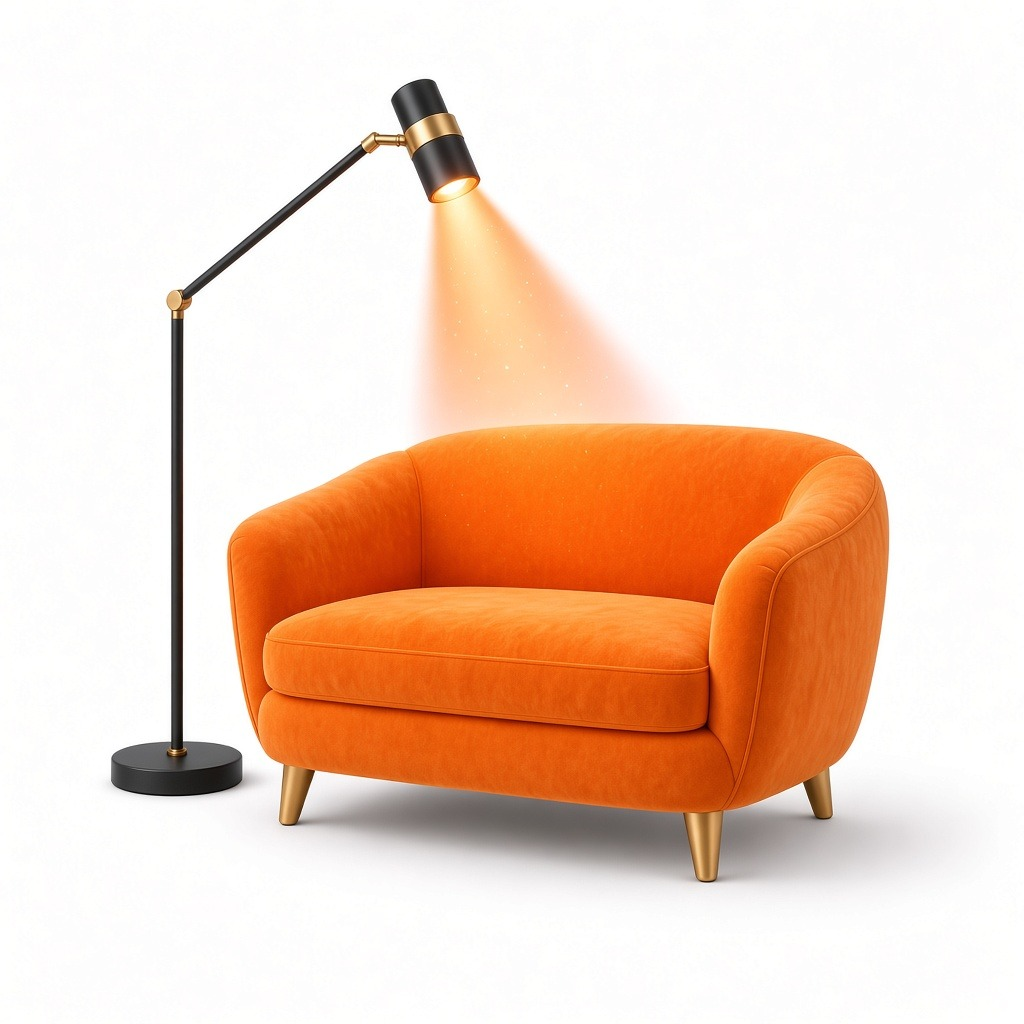
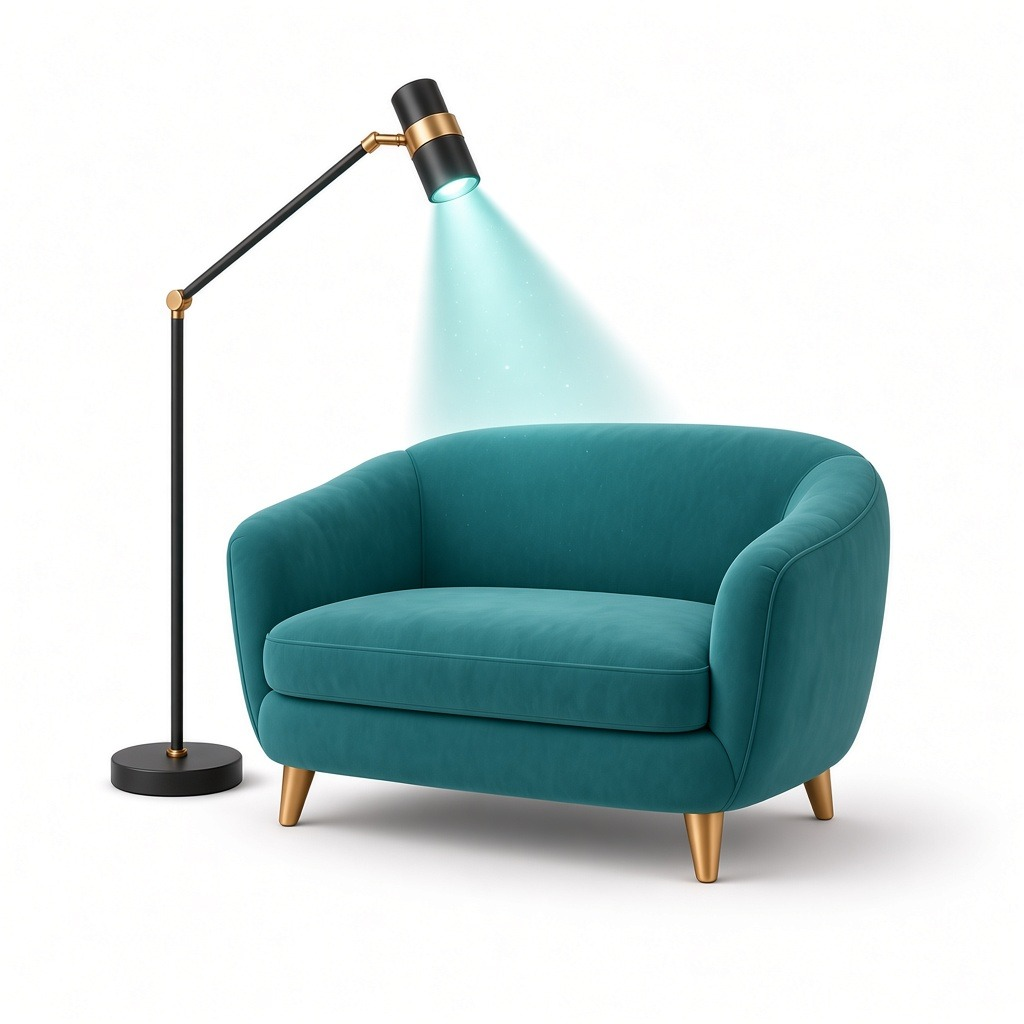
added new images and chnge ui parrt

diff --git a/components/account/AccountShell.tsx b/components/account/AccountShell.tsx
@@ -74,6 +74,7 @@ export function AccountAvatar({
 
 function GlassRail({
   pinned = false,
+  lightDrawer = false,
   pathname,
   data,
   onLogout,
@@ -82,6 +83,8 @@ function GlassRail({
 }: {
   /** Mobile drawer stays open with labels. Desktop expands with group-hover. */
   pinned?: boolean;
+  /** Light surface panel for mobile drawer (follows theme). */
+  lightDrawer?: boolean;
   pathname: string;
   data: AccountData | null;
   onLogout: () => void;
@@ -94,15 +97,34 @@ function GlassRail({
   const rowLayout = pinned
     ? "gap-2.5 pr-3 pl-1"
     : "justify-center group-hover/rail:justify-start group-hover/rail:gap-2.5 group-hover/rail:pr-3 group-hover/rail:pl-1 group-focus-within/rail:justify-start group-focus-within/rail:gap-2.5 group-focus-within/rail:pr-3 group-focus-within/rail:pl-1";
+  const ink = lightDrawer ? "text-text" : "text-rail-ink";
+  const tileIdle = lightDrawer
+    ? "bg-surface-muted text-text ring-1 ring-border dark:bg-white/8 dark:ring-white/10"
+    : "bg-white/10 text-rail-ink ring-1 ring-white/15 dark:bg-black/8 dark:ring-black/10";
+  const rowHover = lightDrawer
+    ? "hover:bg-surface-muted dark:hover:bg-white/8"
+    : "hover:bg-white/10 dark:hover:bg-black/8";
+  const activeRow = lightDrawer
+    ? "bg-accent-soft text-accent shadow-none"
+    : "bg-rail-active text-rail-on shadow-[0_8px_20px_rgba(0,0,0,0.12)]";
+  const activeIcon = lightDrawer
+    ? "bg-transparent text-accent"
+    : "bg-transparent text-rail-on";
+  const activeLabel = lightDrawer ? "text-accent" : "text-rail-on";
+  const idleLabel = lightDrawer ? "text-text" : "text-rail-ink";
 
   return (
     <div
-      className={`relative flex h-full w-full flex-col rounded-[40px] border border-white/15 bg-rail py-5 text-rail-ink dark:border-black/10 ${
-        pinned ? "overflow-hidden px-3.5" : "px-3"
+      className={`relative flex h-full w-full flex-col rounded-[40px] border pb-5 ${
+        lightDrawer
+          ? "overflow-hidden border-border bg-surface px-3.5 pt-3 text-text shadow-[0_20px_50px_rgba(0,0,0,0.18)] dark:border-white/10 dark:bg-(--vybe-nav)"
+          : pinned
+            ? "overflow-hidden border-white/15 bg-rail px-3.5 pt-3 text-rail-ink dark:border-black/10"
+            : "border-white/15 bg-rail px-3 pt-0 text-rail-ink dark:border-black/10"
       }`}
     >
       <div
-        className={`mb-6 flex items-center ${
+        className={`mb-5 flex h-10 items-center ${
           pinned
             ? "gap-2 px-1"
             : "justify-center group-hover/rail:justify-start group-hover/rail:gap-2 group-hover/rail:px-1 group-focus-within/rail:justify-start group-focus-within/rail:gap-2 group-focus-within/rail:px-1"
@@ -111,12 +133,16 @@ function GlassRail({
         <Link
           href="/"
           aria-label="VYBZ home"
-          className="flex size-11 shrink-0 items-center justify-center rounded-full bg-white/10 text-[15px] font-extrabold text-rail-ink ring-1 ring-white/15 transition-transform hover:scale-105 dark:bg-black/8 dark:ring-black/10"
+          className={`flex size-10 shrink-0 items-center justify-center rounded-full text-[14px] font-extrabold transition-transform hover:scale-105 ${
+            lightDrawer
+              ? "bg-surface-muted text-text ring-1 ring-border dark:bg-white/8 dark:ring-white/10"
+              : "bg-white/10 text-rail-ink ring-1 ring-white/15 dark:bg-black/8 dark:ring-black/10"
+          }`}
         >
           V
         </Link>
         <span
-          className={`overflow-hidden text-[15px] font-extrabold tracking-wide whitespace-nowrap text-rail-ink transition-all duration-300 ${
+          className={`overflow-hidden text-[15px] font-extrabold tracking-wide whitespace-nowrap transition-all duration-300 ${ink} ${
             pinned ? "ml-1 opacity-100" : "w-0 opacity-0 group-hover/rail:ml-1 group-hover/rail:w-auto group-hover/rail:opacity-100 group-focus-within/rail:ml-1 group-focus-within/rail:w-auto group-focus-within/rail:opacity-100"
           }`}
         >
@@ -127,7 +153,11 @@ function GlassRail({
             type="button"
             aria-label="Close menu"
             onClick={onClose}
-            className="ml-auto inline-flex size-9 items-center justify-center rounded-full bg-white/10 text-rail-ink ring-1 ring-white/15 dark:bg-black/8 dark:ring-black/10"
+            className={`ml-auto inline-flex size-9 items-center justify-center rounded-full ring-1 ${
+              lightDrawer
+                ? "bg-surface-muted text-text ring-border dark:bg-white/8 dark:ring-white/10"
+                : "bg-white/10 text-rail-ink ring-white/15 dark:bg-black/8 dark:ring-black/10"
+            }`}
           >
             <X className="size-4" />
           </button>
@@ -146,28 +176,28 @@ function GlassRail({
               onClick={onNavigate}
               aria-current={active ? "page" : undefined}
               title={item.label}
-              className={`relative flex h-12 items-center rounded-full text-rail-ink transition-colors duration-200 ${rowLayout} ${
+              className={`relative flex h-12 items-center rounded-full transition-colors duration-200 ${ink} ${rowLayout} ${
                 active
                   ? pinned
-                    ? "bg-rail-active text-rail-on shadow-[0_8px_20px_rgba(0,0,0,0.12)]"
+                    ? activeRow
                     : "account-rail-curve"
-                  : "hover:bg-white/10 dark:hover:bg-black/8"
+                  : rowHover
               }`}
             >
               <span
                 className={`relative flex size-10 shrink-0 items-center justify-center rounded-full transition-transform duration-200 hover:scale-105 ${
                   active
                     ? pinned
-                      ? "bg-transparent text-rail-on"
+                      ? activeIcon
                       : "bg-rail-active text-rail-on shadow-[0_6px_16px_rgba(0,0,0,0.12)] group-hover/rail:bg-transparent group-hover/rail:shadow-none group-focus-within/rail:bg-transparent group-focus-within/rail:shadow-none"
-                    : "bg-white/10 text-rail-ink ring-1 ring-white/15 dark:bg-black/8 dark:ring-black/10"
+                    : tileIdle
                 }`}
               >
                 <Icon className="size-[18px]" strokeWidth={active ? 2.35 : 1.9} />
               </span>
               <span
                 className={`truncate text-[15px] font-semibold whitespace-nowrap transition-all duration-300 ${labelClass} ${
-                  active ? "text-rail-on" : "text-rail-ink"
+                  active ? (pinned ? activeLabel : "text-rail-on") : idleLabel
                 }`}
               >
                 {item.label}
@@ -194,28 +224,32 @@ function GlassRail({
         onClick={onNavigate}
         title="Settings"
         aria-current={isActive(pathname, "/settings") ? "page" : undefined}
-        className={`flex h-12 items-center rounded-full text-rail-ink transition-colors hover:bg-white/10 dark:hover:bg-black/8 ${rowLayout} ${
+        className={`flex h-12 items-center rounded-full transition-colors ${ink} ${rowHover} ${rowLayout} ${
           isActive(pathname, "/settings")
             ? pinned
-              ? "bg-rail-active text-rail-on shadow-[0_8px_20px_rgba(0,0,0,0.12)]"
+              ? activeRow
               : "account-rail-curve"
             : ""
         }`}
       >
         <span
-          className={`flex size-10 shrink-0 items-center justify-center rounded-full ring-1 transition-transform duration-200 hover:scale-105 ${
+          className={`flex size-10 shrink-0 items-center justify-center rounded-full transition-transform duration-200 hover:scale-105 ${
             isActive(pathname, "/settings")
               ? pinned
-                ? "bg-transparent text-rail-on ring-transparent"
+                ? `${activeIcon} ring-transparent`
                 : "bg-rail-active text-rail-on shadow-[0_6px_16px_rgba(0,0,0,0.12)] ring-transparent group-hover/rail:bg-transparent group-hover/rail:shadow-none group-focus-within/rail:bg-transparent group-focus-within/rail:shadow-none"
-              : "bg-white/10 text-rail-ink ring-white/15 dark:bg-black/8 dark:ring-black/10"
+              : tileIdle
           }`}
         >
           <Settings className="size-[18px]" strokeWidth={isActive(pathname, "/settings") ? 2.35 : 1.9} />
         </span>
         <span
           className={`truncate text-[15px] font-semibold whitespace-nowrap transition-all duration-300 ${labelClass} ${
-            isActive(pathname, "/settings") ? "text-rail-on" : "text-rail-ink"
+            isActive(pathname, "/settings")
+              ? pinned
+                ? activeLabel
+                : "text-rail-on"
+              : idleLabel
           }`}
         >
           Settings
@@ -226,13 +260,13 @@ function GlassRail({
         type="button"
         onClick={onLogout}
         title="Log out"
-        className={`flex h-12 items-center rounded-full text-rail-ink transition-colors hover:bg-white/10 dark:hover:bg-black/8 ${rowLayout}`}
+        className={`flex h-12 items-center rounded-full transition-colors ${ink} ${rowHover} ${rowLayout}`}
       >
-        <span className="flex size-10 shrink-0 items-center justify-center rounded-full bg-white/10 ring-1 ring-white/15 dark:bg-black/8 dark:ring-black/10">
+        <span className={`flex size-10 shrink-0 items-center justify-center rounded-full ${tileIdle}`}>
           <LogOut className="size-[18px]" strokeWidth={1.9} />
         </span>
         <span
-          className={`truncate text-[15px] font-semibold whitespace-nowrap text-rail-ink transition-all duration-300 ${labelClass}`}
+          className={`truncate text-[15px] font-semibold whitespace-nowrap transition-all duration-300 ${idleLabel} ${labelClass}`}
         >
           Log out
         </span>
@@ -279,7 +313,7 @@ export function AccountShell({ children }: { children: ReactNode }) {
       className={`min-h-dvh min-w-[320px] ${profilePage ? "bg-white dark:bg-bg" : "bg-bg"}`}
     >
       <div className="flex min-h-dvh w-full max-w-[1600px] lg:gap-3">
-        <aside className="group/rail sticky top-0 z-20 hidden h-dvh w-[76px] shrink-0 py-4 pl-2 transition-[width] duration-300 ease-[cubic-bezier(0.22,1,0.36,1)] hover:w-[260px] focus-within:w-[260px] lg:mr-1 lg:block">
+        <aside className="group/rail sticky top-0 z-20 hidden h-dvh w-[76px] shrink-0 pt-3 pb-3 pl-2 transition-[width] duration-300 ease-[cubic-bezier(0.22,1,0.36,1)] hover:w-[260px] focus-within:w-[260px] lg:mr-1 lg:block lg:pt-3">
           <GlassRail
             pathname={pathname}
             data={data}
@@ -289,7 +323,7 @@ export function AccountShell({ children }: { children: ReactNode }) {
 
         <div className="flex min-w-0 flex-1 flex-col">
           <header
-            className={`sticky top-0 z-40 py-3 pr-4 pl-4 backdrop-blur-md sm:pr-6 sm:pl-5 lg:pr-8 lg:pl-6 ${
+            className={`sticky top-0 z-40 py-3 pr-4 pl-4 backdrop-blur-md sm:pr-6 sm:pl-5 lg:pt-3 lg:pr-8 lg:pb-3 lg:pl-6 ${
               profilePage
                 ? "border-0 bg-white/90 dark:bg-bg/90"
                 : "border-b border-border bg-bg/90"
@@ -330,11 +364,11 @@ export function AccountShell({ children }: { children: ReactNode }) {
         </div>
       </div>
 
-      {/* Mobile / tablet drawer */}
+      {/* Mobile / tablet drawer — shaded overlay, light-theme panel */}
       <div
         aria-hidden
         onClick={() => setDrawerOpen(false)}
-        className={`fixed inset-0 z-[70] bg-black/50 transition-opacity duration-200 lg:hidden ${
+        className={`fixed inset-0 z-[70] bg-black/45 backdrop-blur-[2px] transition-opacity duration-200 lg:hidden ${
           drawerOpen ? "opacity-100" : "pointer-events-none opacity-0"
         }`}
       />
@@ -350,6 +384,7 @@ export function AccountShell({ children }: { children: ReactNode }) {
         <div className="h-full pt-[max(0px,env(safe-area-inset-top))] pb-[max(0px,env(safe-area-inset-bottom))]">
           <GlassRail
             pinned
+            lightDrawer
             pathname={pathname}
             data={data}
             onClose={() => setDrawerOpen(false)}

diff --git a/components/navbar/MobileNavMenu.tsx b/components/navbar/MobileNavMenu.tsx
@@ -92,7 +92,7 @@ export function MobileNavMenu({ chrome }: { chrome: string }) {
       <div
         aria-hidden
         onClick={() => setOpen(false)}
-        className={`fixed inset-0 z-[70] bg-black/45 backdrop-blur-[3px] transition-opacity duration-500 ${
+        className={`fixed inset-0 z-[70] bg-black/45 backdrop-blur-[2px] transition-opacity duration-500 ${
           open ? "pointer-events-auto opacity-100" : "pointer-events-none opacity-0"
         }`}
       />
@@ -103,7 +103,7 @@ export function MobileNavMenu({ chrome }: { chrome: string }) {
         aria-modal="true"
         aria-label="Menu"
         inert={!open}
-        className={`fixed inset-y-0 right-0 z-[71] flex w-[min(86vw,360px)] flex-col rounded-l-[28px] bg-(--vybe-nav) shadow-[-24px_0_60px_rgba(0,0,0,0.22)] transition-[translate,visibility] duration-500 ${DRAWER_EASE} dark:shadow-[-24px_0_60px_rgba(0,0,0,0.6)] ${
+        className={`fixed inset-y-0 right-0 z-[71] flex w-[min(86vw,360px)] flex-col rounded-l-[28px] bg-surface shadow-[-24px_0_60px_rgba(0,0,0,0.22)] transition-[translate,visibility] duration-500 ${DRAWER_EASE} dark:bg-(--vybe-nav) dark:shadow-[-24px_0_60px_rgba(0,0,0,0.6)] ${
           open ? "visible translate-x-0" : "invisible translate-x-full"
         }`}
       >

diff --git a/app/list-your-events/page.tsx b/app/list-your-events/page.tsx
@@ -18,19 +18,19 @@ const steps = [
     n: "01",
     title: "Register",
     body: "Create your organiser profile in minutes.",
-    image: "/images/list-events/step-register.jpg",
+    image: "/images/list-events/step-register-teal.jpg",
   },
   {
     n: "02",
     title: "List your event",
     body: "Add details, visuals, shows and ticket tiers.",
-    image: "/images/list-events/step-ticket.jpg",
+    image: "/images/list-events/step-ticket-teal.jpg",
   },
   {
     n: "03",
     title: "Go live on VYBZ",
     body: "Publish and start selling to the VYBZ crowd.",
-    image: "/images/list-events/step-live.jpg",
+    image: "/images/list-events/step-live-teal.jpg",
   },
 ];
 

diff --git a/app/globals.css b/app/globals.css
@@ -72,6 +72,10 @@
   --vybe-sidebar: #14141b;
   --vybe-dash: #eeeef2;
   --vybe-nav: #ffffff;
+  --vybe-rail: #14141b;
+  --vybe-rail-ink: #f4f4f5;
+  --vybe-rail-active: #ffffff;
+  --vybe-rail-on: #14141b;
 }
 
 html.dark {
@@ -100,6 +104,10 @@ html.dark {
   --vybe-sidebar: #16161c;
   --vybe-dash: #0f0f14;
   --vybe-nav: #16161c;
+  --vybe-rail: #1c1c24;
+  --vybe-rail-ink: #f4f4f5;
+  --vybe-rail-active: #f4f4f5;
+  --vybe-rail-on: #0b0b0f;
 }
 
 html,
